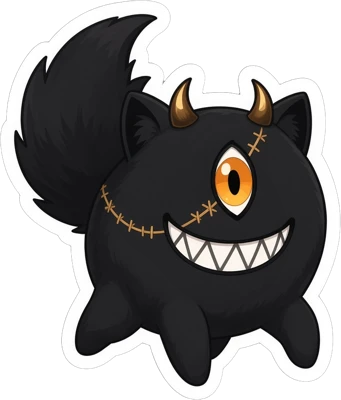
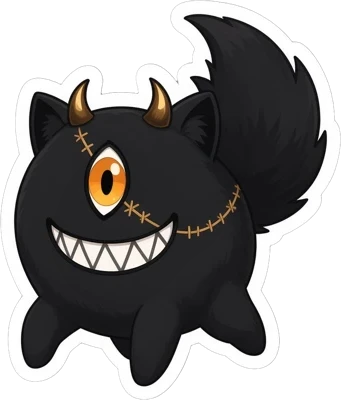
Flip creature to face text

diff --git a/index.html b/index.html
@@ -31,7 +31,7 @@ h2{font-family:'Permanent Marker',cursive;font-weight:400;font-size:2.4rem;color
 .card{border:2px solid var(--o);padding:1rem;background:rgba(255,106,0,.06)}.card h3{font-weight:800;text-transform:uppercase;letter-spacing:.08em}.card small{opacity:.7}
 .links a{display:flex;justify-content:space-between;text-decoration:none;font-weight:800;font-size:1.2rem;padding:1.1rem;border:2px solid var(--w);transition:.2s}
 .links a:hover,.links a:active{background:var(--o);color:var(--b);border-color:var(--o);transform:rotate(-1deg)}
-.splat{position:absolute;right:0;top:10px;width:170px;transform:rotate(-10deg);filter:drop-shadow(3px 4px 0 rgba(255,106,0,.6));pointer-events:none}@media(max-width:600px){.splat{width:115px;top:2.6rem}}
+.splat{position:absolute;right:0;top:10px;width:170px;transform:rotate(10deg);filter:drop-shadow(3px 4px 0 rgba(255,106,0,.6));pointer-events:none}@media(max-width:600px){.splat{width:115px;top:2.6rem}}
 .note{margin-top:.8rem;opacity:.7}
 footer{text-align:center;padding:2rem 1rem 3rem;opacity:.75;font-size:.85rem}footer img{width:48px;display:block;margin:0 auto .6rem}
 @media(min-width:800px){.hero{justify-content:center}.ht{padding:0 6vw;max-width:62%}.hero>img{object-position:center}.hero:after{background:linear-gradient(90deg,var(--b) 5%,rgba(11,11,11,.45) 45%,transparent 65%)}}
@@ -66,7 +66,7 @@ h1.wm .d{position:absolute;border-radius:50%;background:#ff3200;-webkit-text-fil
 <div class="watch"><p class="wl">Watch live</p><div class="btns w3"><a class="btn o w" href="https://www.twitch.tv/kitsuranines" target="_blank" rel="noopener"><svg viewBox="0 0 24 24" aria-hidden="true"><path d="M11.571 4.714h1.715v5.143H11.57zm4.715 0H18v5.143h-1.714zM6 0L1.714 4.286v15.428h5.143V24l4.286-4.286h3.428L22.286 12V0zm14.571 11.143l-3.428 3.428h-3.429l-3 3v-3H6.857V1.714h13.714Z"/></svg>Twitch</a><a class="btn o w" href="https://kick.com/kitsuranines" target="_blank" rel="noopener"><svg viewBox="0 0 24 24" aria-hidden="true"><path d="M1.333 0h8v5.333H12V2.667h2.667V0h8v8H20v2.667h-2.667v2.666H20V16h2.667v8h-8v-2.667H12v-2.666H9.333V24h-8Z"/></svg>Kick</a><a class="btn o w" href="https://www.youtube.com/channel/UCuyGzRwtQ3LgjorRlLn5lMA" target="_blank" rel="noopener"><svg viewBox="0 0 24 24" aria-hidden="true"><path d="M23.498 6.186a3.016 3.016 0 0 0-2.122-2.136C19.505 3.545 12 3.545 12 3.545s-7.505 0-9.377.505A3.017 3.017 0 0 0 .502 6.186C0 8.07 0 12 0 12s0 3.93.502 5.814a3.016 3.016 0 0 0 2.122 2.136c1.871.505 9.376.505 9.376.505s7.505 0 9.377-.505a3.015 3.015 0 0 0 2.122-2.136C24 15.93 24 12 24 12s0-3.93-.502-5.814zM9.545 15.568V8.432L15.818 12l-6.273 3.568z"/></svg>YouTube</a></div></div><div class="btns"><a class="btn" href="#pages">Explore</a></div></div></header><main class="over">
 <div class="slash"></div>
 <section id="pages" class="pages"><h2>Explore</h2><div class="grid"><a href="https://kitsuranines.github.io/static-hollow/" target="_blank" rel="noopener">Ref Sheets / Lore <small>Static Hollow character directory</small></a><a href="apps.html">Apps <small>Pet: Roger &amp; the Magic 8 Ball</small></a><a href="cameos.html">Cameos <small>Friends&rsquo; videos featuring Nines</small></a><a href="https://uwumarket.us/collections/kitsura-nines" target="_blank" rel="noopener">Merch <small>Shop on UwU Market</small></a></div></section>
-<section class="about"><img class="splat" src="img/creature-hop.webp?v=1" alt="" aria-hidden="true">
+<section class="about"><img class="splat" src="img/creature-hop.webp?v=2" alt="" aria-hidden="true">
 <h2>About</h2><p>Hey, I'm <b>Kitsura Nines</b>, a marble fox VTuber who mostly streams horror games. Jump scares, creepy lore and a lot of yelling.</p>
 <p>My little shadow <b>Roger</b> is always around. He's a fluffy fox with a third eye, and he sees everything.</p></section>
 <section id="schedule"><h2>Schedule</h2><div class="grid"><div class="card sch"><span class="day">Mon</span><h3>Movie Night</h3><small>9:30 PM EST</small></div><div class="card sch"><span class="day">Tue</span><h3>Live</h3><small>8:00 PM EST</small></div><div class="card sch"><span class="day">Wed</span><h3>Live</h3><small>8:00 PM EST</small></div><div class="card sch"><span class="day">Thu</span><h3>Live</h3><small>8:00 PM EST</small></div><div class="card sch"><span class="day">Fri</span><h3>Live</h3><small>8:00 PM EST</small></div></div><p class="note">All times EST.</p></section>
